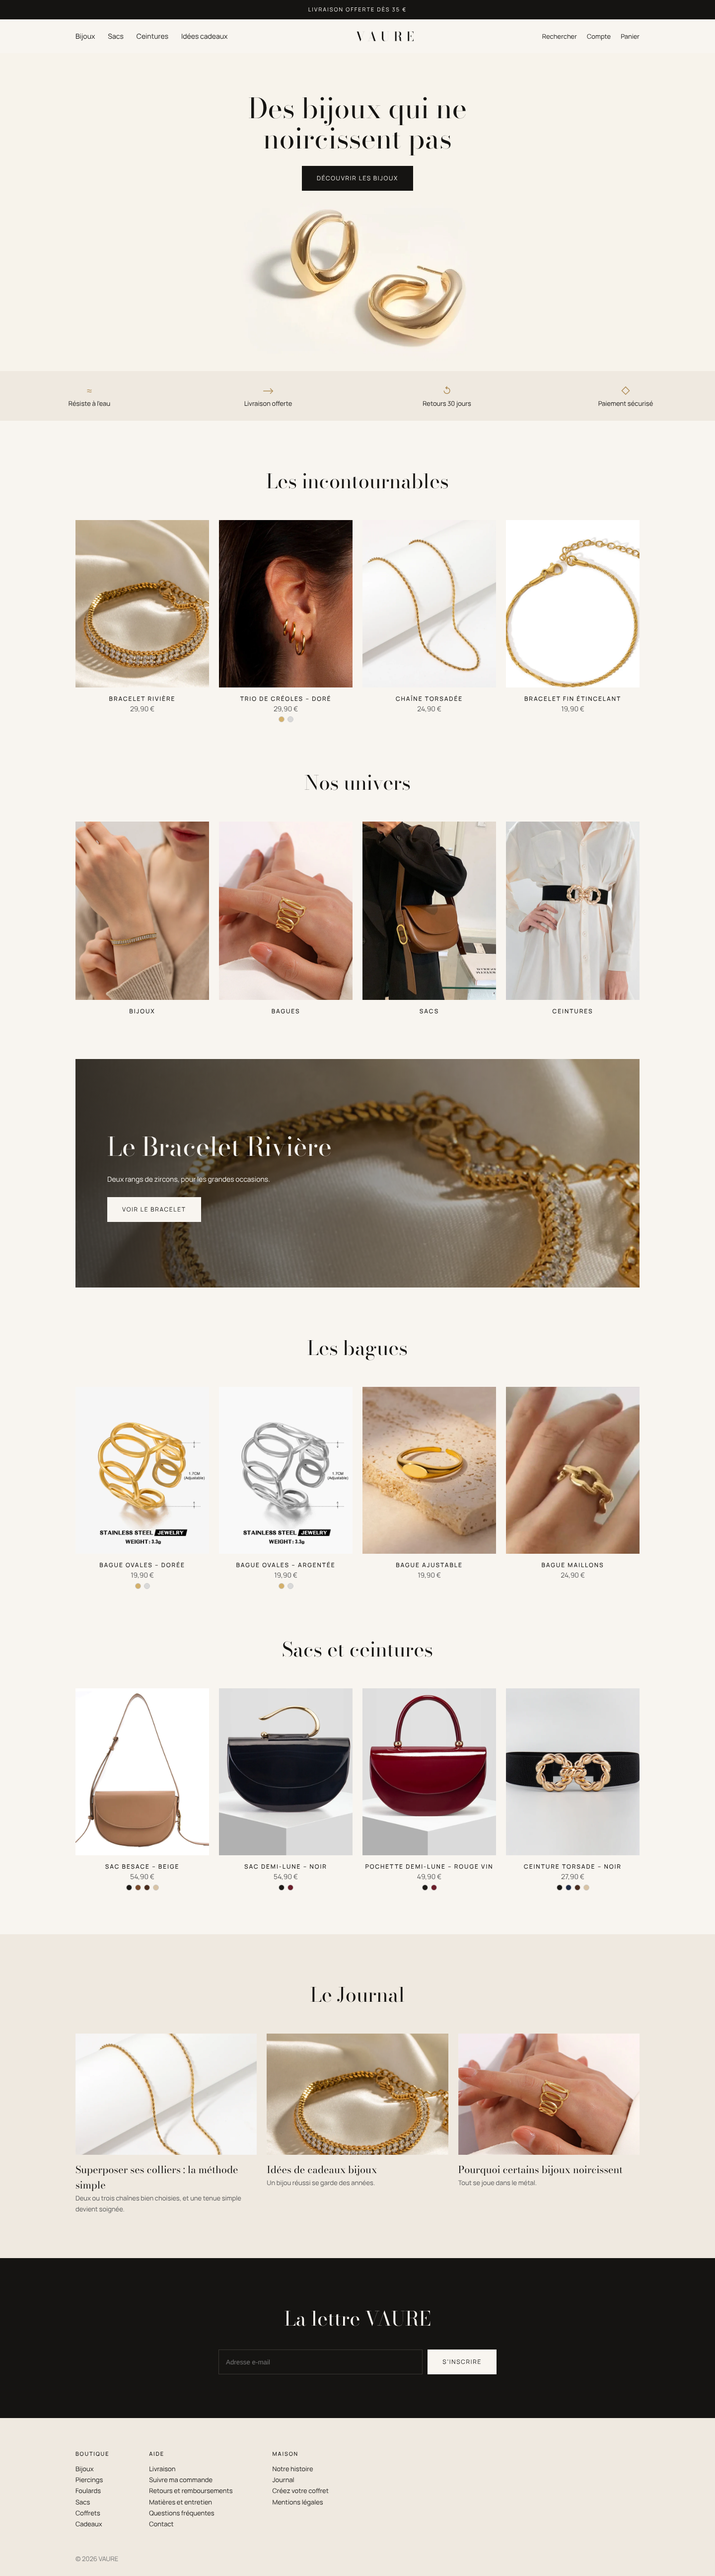
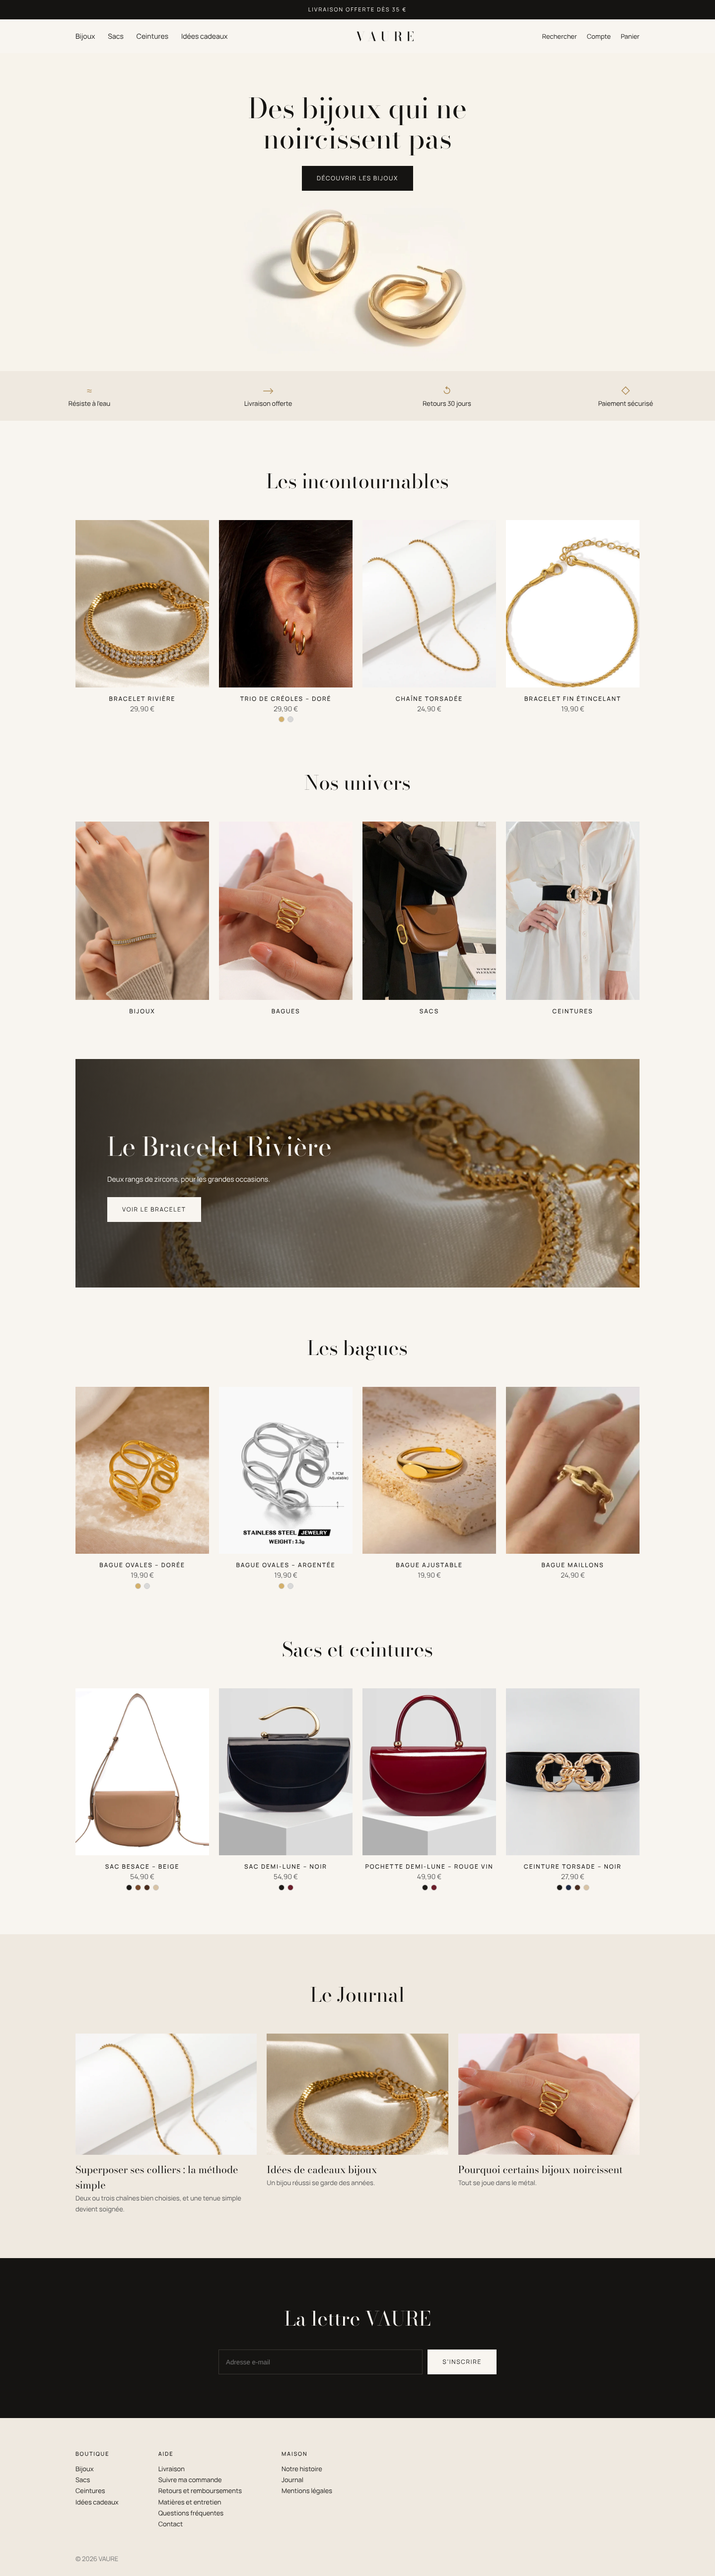
VAURE: aperçu à jour
Claude-Session: https://claude.ai/code/session_013s4U6wyjEEiqqasJXAgjhq

Changed region(s): [[0.0938, 0.531, 0.3125, 0.6248], [0.2188, 0.9371, 0.25, 0.9996], [0.4062, 0.9371, 0.4375, 0.9684]]

diff --git a/vaure/docs/apercu/apercu-accueil.html b/vaure/docs/apercu/apercu-accueil.html
@@ -35,13 +35,13 @@ footer{background:var(--be);padding:64px 0 24px;font-size:13px}footer .cols{disp
 <section style="padding-top:0"><div class="w"><h2>Sacs et ceintures</h2><div class="grid" id="sac"></div></div></section>
 <section style="background:var(--be)"><div class="w jr"><h2>Le Journal</h2><div class="grid" style="grid-template-columns:repeat(3,1fr)" id="jr"></div></div></section>
 <section class="nl"><h2 style="margin-bottom:28px">La lettre VAURE</h2><form><input placeholder="Adresse e-mail"><a class="btn">S’inscrire</a></form></section>
-<footer><div class="w"><div class="cols"><div><h6>Boutique</h6>Bijoux<br>Piercings<br>Foulards<br>Sacs<br>Coffrets<br>Cadeaux</div><div><h6>Aide</h6>Livraison<br>Suivre ma commande<br>Retours et remboursements<br>Matières et entretien<br>Questions fréquentes<br>Contact</div><div><h6>Maison</h6>Notre histoire<br>Journal<br>Créez votre coffret<br>Mentions légales</div></div><p style="margin-top:48px;color:#777">© 2026 VAURE</p></div></footer>
+<footer><div class="w"><div class="cols"><div><h6>Boutique</h6>Bijoux<br>Sacs<br>Ceintures<br>Idées cadeaux</div><div><h6>Aide</h6>Livraison<br>Suivre ma commande<br>Retours et remboursements<br>Matières et entretien<br>Questions fréquentes<br>Contact</div><div><h6>Maison</h6>Notre histoire<br>Journal<br>Mentions légales</div></div><p style="margin-top:48px;color:#777">© 2026 VAURE</p></div></footer>
 <script>
 const C='https://cdn.shopify.com/s/files/1/1007/2742/3358/files/';
 const card=(img,n,p,d)=>`<div class="card"><div class="im" style="background-image:url(${C+img}?width=800)"></div><h6>${n}</h6><p>${p}</p>${d?'<div class="dots">'+d.map(c=>`<i style="background:${c}"></i>`).join('')+'</div>':''}</div>`;
 const DA=['#D4B06A','#D9D9D9'];
 inc.innerHTML=[['bracelet-double-rang.png','Bracelet Rivière','29,90 €'],['28c09661-b4df-4557-b754-a7a3e40d0106.jpg','Trio de Créoles – Doré','29,90 €',DA],['9be060a6-5da0-400c-a6c6-19fea850cfcb.jpg','Chaîne Torsadée','24,90 €'],['bracelet-fin-etincelant.png','Bracelet Fin Étincelant','19,90 €']].map(a=>card(...a)).join('');
-bag.innerHTML=[['b57ca676-80d3-49ef-8f99-d0ccdfd2c174.jpg','Bague Ovales – Dorée','19,90 €',DA],['467da876-ab7d-4cb1-b75d-9af1451c6c77.jpg','Bague Ovales – Argentée','19,90 €',DA],['f1e88d1c-96bd-4343-8d6c-4bedb47ad335.jpg','Bague Ajustable','19,90 €'],['f1dd74f3-4f0f-4c57-92f9-becdf18071dc.jpg','Bague Maillons','24,90 €']].map(a=>card(...a)).join('');
+bag.innerHTML=[['350c6b59-ca19-4d77-ba9f-b7956932b493.jpg','Bague Ovales – Dorée','19,90 €',DA],['467da876-ab7d-4cb1-b75d-9af1451c6c77.jpg','Bague Ovales – Argentée','19,90 €',DA],['f1e88d1c-96bd-4343-8d6c-4bedb47ad335.jpg','Bague Ajustable','19,90 €'],['f1dd74f3-4f0f-4c57-92f9-becdf18071dc.jpg','Bague Maillons','24,90 €']].map(a=>card(...a)).join('');
 sac.innerHTML=[['cafa6944-75df-4c35-a89f-73259a66fd96.jpg','Sac Besace – Beige','54,90 €',['#1d1a16','#7a4a2a','#4a2c1d','#d8c3a5']],['77ce40c3-9c33-4b24-a60e-c0268f096297.jpg','Sac Demi-Lune – Noir','54,90 €',['#1d1a16','#6b1e2a']],['487ee52c-4d73-4854-845f-f9e7066831d7.jpg','Pochette Demi-Lune – Rouge vin','49,90 €',['#1d1a16','#6b1e2a']],['034c6a9e-723b-4746-8da4-eb0ee8e5cd4a.jpg','Ceinture Torsade – Noir','27,90 €',['#1d1a16','#1f2a44','#4a2c1d','#d8c3a5']]].map(a=>card(...a)).join('');
 uni.innerHTML=[['3e0ea38c-6ee0-4553-a8a6-c2d297f15c0b.jpg','Bijoux'],['92e92f44-f8de-438e-9c32-1edf3233eeac.jpg','Bagues'],['3c7963a1-911c-4c51-a087-c3b55476d998.jpg','Sacs'],['c43c2354-78a4-49b6-9df2-73a432eca5a1.jpg','Ceintures']].map(([i,n])=>`<div class="card"><div class="im" style="background-image:url(${C+i}?width=800)"></div><h6>${n}</h6></div>`).join('');
 jr.innerHTML=[['9be060a6-5da0-400c-a6c6-19fea850cfcb.jpg','Superposer ses colliers : la méthode simple','Deux ou trois chaînes bien choisies, et une tenue simple devient soignée.'],['bracelet-double-rang.png','Idées de cadeaux bijoux','Un bijou réussi se garde des années.'],['92e92f44-f8de-438e-9c32-1edf3233eeac.jpg','Pourquoi certains bijoux noircissent','Tout se joue dans le métal.']].map(([i,t,d])=>`<div><div class="im" style="background:url(${C+i}?width=800) center/cover"></div><h4>${t}</h4><p>${d}</p></div>`).join('');
